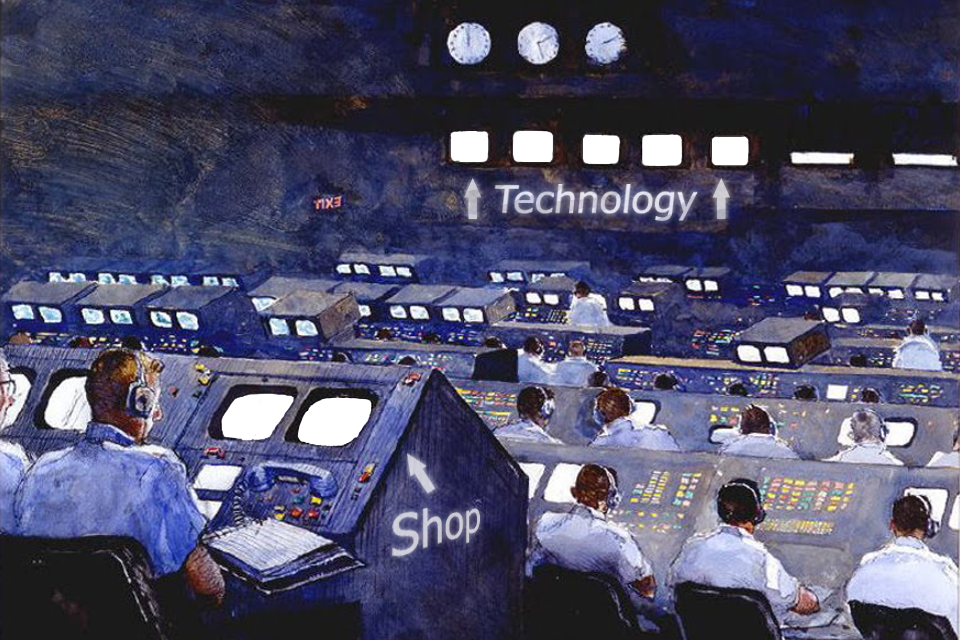
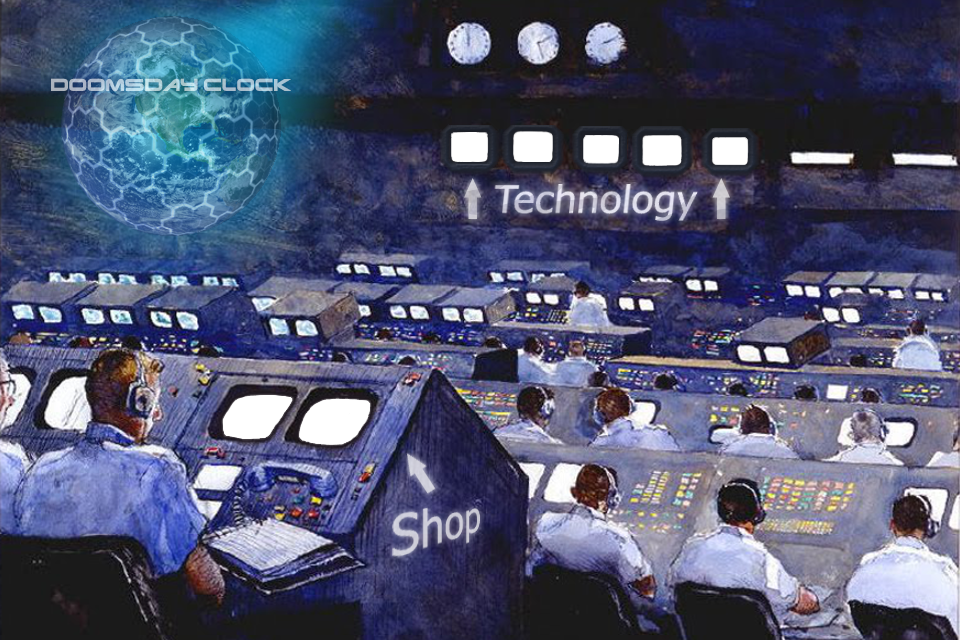
update

diff --git a/nccarlso/javascript/Buildings.js b/nccarlso/javascript/Buildings.js
@@ -40,6 +40,7 @@ comms1.sy = 1;
 comms1.isNode = 0;
 comms1.image = Textures.load("images/4.png");
 
+
 var wind1  = new Sprite();
 wind1.width = 40;
 wind1.height = 40;
@@ -102,25 +103,18 @@ function getModel(model){
 	switch(model) {
     case 1:
         return pop1;
-        break;
     case 2:
         return green1;
-        break;
     case 3:
         return solar1;
-        break;
     case 4:
         return comms1;
-        break;
-    case 5:
+	case 5:
         return wind1;
-        break;
-    case 6:
+	case 6:
         return reactor1;
-        break;
     default:
         return pop1;
-		break;
 	}
 }
 
@@ -130,37 +124,30 @@ function makeModel(model){
         live++; 
         money -= .01;
         return pop1;
-        break;
     case 2:
         green++;
         money -= .05;
         return green1;
-        break;
     case 3:
         solar++;
         money -= .01;
         return solar1;
-        break;
     case 4:
         comms++;
         money -= .02;
         return comms1;
-        break;
-    case 5:
+	case 5:
         turbine++;
         money -= .01;
         return wind1;
-        break;
     case 6:
         reactor++;
         money -= .02;
         return reactor1;
-        break;
     default:
         live++;
         money -=.01;
         return pop1;
-		break;
 	}
 }
 
@@ -172,15 +159,15 @@ function BuildingSize(model){
 	return temp;
 }
 function buildResource(){
-	 moneyInc = 0;
-	 foodInc = 0;
-	 waterInc = 0;
-	 energyInc = 0;
-	 mineralInc = 0;
-	 happyInc = 0;
-	 popInc = 0;
-	 airInc = 0;
-	 resInc = 0;
+	moneyInc = 0;
+	foodInc = 0;
+	waterInc = 0;
+	energyInc = 0;
+	mineralInc = 0;
+	happyInc = 0;
+	popInc = 0;
+	airInc = 0;
+	resInc = 0;
 	updateBuild();
 	updateResource();
 	console.log("food:",food);
@@ -229,13 +216,14 @@ function resetVariables(){
 	happiness=80; //Displayed as % (50 is content, <50 upset, >50 happy)
 	solar = 0;
 	turbine = 0;
-	reactor = 0;
 	hydro = 0;
 	photosyn = 0;
 	mine = 0;
 	green = 0;
 	comms = 0;
 	live = 0;
+	days = 0;
+	firstBuilding = true;
 }
 function checkOccupied(model, xOff, yOff){
 	for(var i = 0; i < BuildingSize(model).sy; i++){

diff --git a/nccarlso/javascript/drawHUD.js b/nccarlso/javascript/drawHUD.js
@@ -15,9 +15,11 @@ function clearText(){
 }
 
 function displayHUDtext(){
-
+	
+	//Check if time is up
+	if(doomsDay-getYears() < 1) gameOverMan();
+	
 	clearText();
-
 	if(marsActive || solarActive){
 		//Mars text
 		moneyRound = Math.ceil(money*10)/10;
@@ -52,12 +54,22 @@ function displayHUDtext(){
 		//Earth text
 		moneyRound = Math.ceil(money*10)/10;
 		energyRound = Math.ceil(energy*10)/10;
-		var days = getDays()%31;
+		var days = Math.floor(getDays()%30.4375) + 1;
 		var moneyD="MONEY:  "+moneyRound+"mil";
 		var foodD="FOOD:  "+food;
 		var energyD="ENERGY:  "+energyRound + "mil BTU";
 		var popEarthD="POPULATION:  "+popEarth;
 		var timeD = "DATE:  "+ getYears() + "."+ getMonths()+"."+ days;
+		var yearsAppend = "";
+		var monthsAppend = "";
+		var daysAppend = "";
+		if(doomsDay-(getYears()+1) < 10) yearsAppend = "00";
+		else if(doomsDay-getYears() < 100) yearsAppend = "0";
+		if(12-getMonths() < 10) monthsAppend = "0";
+		if(31-days < 10) daysAppend = "0";
+		
+		//Adjust doomsDay variable to set year Earth dies (located at the top of Solar.js)
+		Countdown.text = yearsAppend+(doomsDay-(getYears()+1))+":"+monthsAppend+(12-getMonths())+":"+daysAppend+(31-days);
 		
 		var text1 = new TextBox(moneyD);
 		var text2 = new TextBox(foodD);
@@ -118,11 +130,11 @@ function stopActive(){
 	if (earthActive) stopEarth();
 	else if (marsActive) stopMars();
 	else if (solarActive) stopSolar();
-	else if(tutorialActive){
-		world.removeChild(TutorialPage);
-		tutorialActive = false;
-	} else if(techActive) stopTech();
+	else if(tutorialActive) stopTutorial();
+	else if(techActive) stopTech();
 	else if(storeActive) stopStore();
+	else if (gameOverActive) stopGameOver();
+	//else stop();
 }
 
 //Mouse Click code below

diff --git a/nccarlso/javascript/StartMenu.js b/nccarlso/javascript/StartMenu.js
@@ -4,6 +4,7 @@ var first = true;
 var canLoad = false;
 var tutorialActive = false;
 var startActive = true;
+var gameOverActive = false;
 
 var MainMenu = new Sprite();
 MainMenu.width = 960;
@@ -18,6 +19,13 @@ TutorialPage.height = 640;
 TutorialPage.x = 0;
 TutorialPage.y = 0;
 TutorialPage.image = Textures.load("images/Tutorial.jpg");
+
+var gameOver = new Sprite();
+gameOver.width = 960;
+gameOver.height = 640;
+gameOver.x = 0;
+gameOver.y = 0;
+gameOver.image = Textures.load("images/gameOver.jpg");
 
 //////////////////////////////////////////////////////////////////
 //Sprite Textures
@@ -197,4 +205,26 @@ function stop(){
 function startTutorial(){
 	tutorialActive = true;
 	world.addChild(TutorialPage);
+}
+
+function stopTutorial(){
+	tutorialActive = false;
+	world.removeChild(TutorialPage);
+}
+
+function stopGameOver(){
+	gameOverActive = false;
+	world.removeChild(gameOver);
+}
+
+function gameOverMan(){
+	stopActive();
+	world.removeChild(HUD);
+	if(typeof timer != "undefined")
+		clearInterval(timer);
+	if(typeof resourceTimer != "undefined")
+		clearInterval(resourceTimer);
+	world.addChild(gameOver);
+	gameOverActive = true;
+	canLoad = false;
 }

diff --git a/nccarlso/javascript/earth.js b/nccarlso/javascript/earth.js
@@ -29,6 +29,16 @@ shopHighlight.width = 172;
 shopHighlight.height = 65;
 shopHighlight.image = Textures.load("images/highlight.png");
 shopHighlight.alpha = 0;
+//Countdown text
+var Countdown = new TextBox("150:00:00");
+Countdown.x = 70;
+Countdown.y = 111;
+Countdown.fontSize = '60';
+Countdown.font = 'BebasNeue';
+Countdown.color = '#FFFFFF';
+Countdown.dropShadow = true;
+Countdown.shadowBlurCustom = 4;
+Countdown.alpha = 0.75;
 
 var earthActive = false;
 
@@ -39,6 +49,7 @@ function startEarth(){
 	world.addChild(techHighlight);
 	world.addChild(shopHighlight);
 	world.addChild(bg2);
+	world.addChild(Countdown);
 	redrawHUD();
 	if(firstSolar){
 		setInterval(solarTime, 1000 / 30);
@@ -56,6 +67,7 @@ function stopEarth(){
 	shopHighlight.alpha = 0;
 	world.removeChild(shopHighlight);
 	world.removeChild(bg2);
+	world.removeChild(Countdown);
 	canvas.removeEventListener("mousemove", earthHover)
 }
 

diff --git a/nccarlso/javascript/Mars.js b/nccarlso/javascript/Mars.js
@@ -1,5 +1,4 @@
 //This  program creates a tile engine
-//use2D = true;
 var marsActive = false;
 var firstBuilding = true;
 document.oncontextmenu=function (){ return false;}
@@ -183,10 +182,12 @@ gInput.addBool(27, "escape");
 window.onkeydown = function(event) {
 	if(marsActive){
 		if(gInput.left && placeBuildingMode){
-			selection = Math.max(1, --selection);
+			selection--;
+			if (selection < 1) selection = buildingTypes;
 			flip = true;
 		}else if(gInput.right && placeBuildingMode){
-			selection = Math.min(buildingTypes, ++selection);
+			selection++;
+			if (selection > buildingTypes) selection = 1;
 			flip = true;
 		}else if(gInput.down){
 			if(placeBuildingMode){

diff --git a/nccarlso/javascript/Solar.js b/nccarlso/javascript/Solar.js
@@ -5,6 +5,7 @@ var Launched = false;
 var LaunchQueued = false;
 var solarActive = false;
 var firstSolar = true;
+var doomsDay = 2165;
 
 function getYears(){
 	return 2015 + Math.floor(days/365.25);
